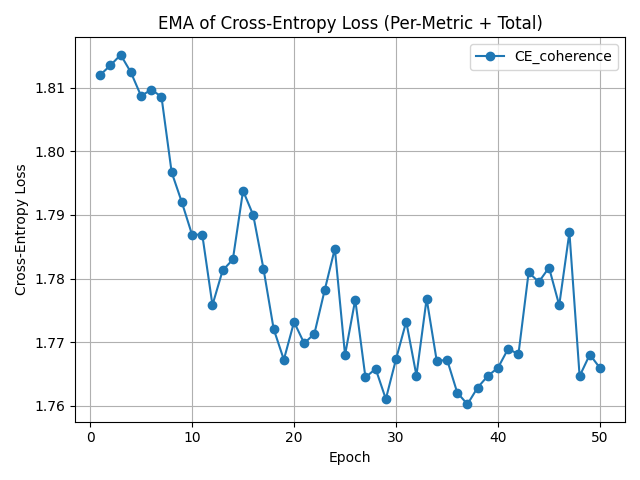
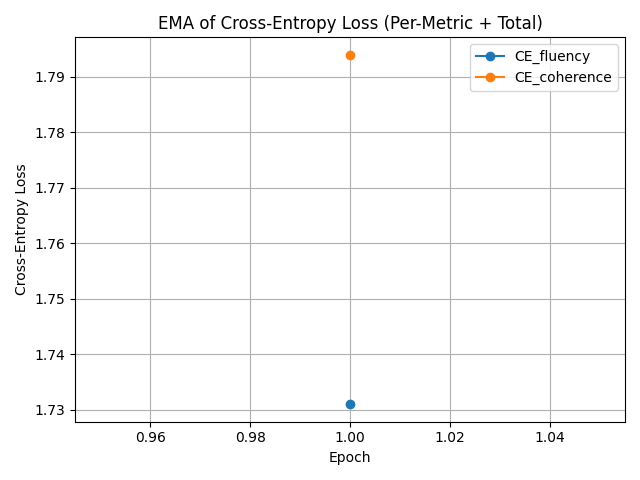
Parametrized OPRO fn

diff --git a/src/opro.py b/src/opro.py
@@ -1,6 +1,6 @@
 import os
 from src.Recommender.recommender import call_recommender_llm, process_reply
-from src.Metrics.get_metrics import calculate_metrics, find_most_imformative_points
+from src.Metrics.get_metrics import calculate_metrics, find_most_informative_points
 from src.Rater.rater import call_rater_llm_meta_prompt, call_rater_llm_prompt
 from src.TopK_Heap.top_k import TopKHeap
 import matplotlib
@@ -145,6 +145,9 @@ def write_replies(processed_replies: list, model: str = "8b") -> None:
 
 
 def run_opro(
+  metric_names: list[str],
+  reco_format: str, ## OPRO or ours-unnamed
+  optimizer: str, ## 'min-all' or 'min-max'
   file_path: str = "Dataset/dataset/df_M11_sampled.parquet",
   top_k: int = 10,
   num_epochs: int = 30,
@@ -165,7 +168,6 @@ def run_opro(
   top_k_prompts = TopKHeap(top_k)
   print(f"Step 1: Created a heap to store top-{top_k} prompts (Successful)")
 
-  metric_names = ["coherence"] # "fluency", "consistency", "relevance","coherence"
   metric_history = {
     metric : {"f1" : [], "accuracy" : [], f"CE_{metric}" : []} for metric in metric_names
   }
@@ -176,6 +178,7 @@ def run_opro(
     print(f"\n--- Epoch {epoch + 1}/{num_epochs} ---")
     instruction = call_rater_llm_meta_prompt(
       top_k_prompts=top_k_prompts,
+      metric_names=metric_names,
       rater_llm_name=rater_llm_name,
       rater_temp=rater_temp, rater_top_p=rater_top_p,
     )
@@ -183,16 +186,17 @@ def run_opro(
 
     evals = call_rater_llm_prompt(
       instruction=instruction, file_path=file_path,
+      metric_names=metric_names,
       rater_llm_name=rater_llm_name, max_workers=max_workers,
       calls_per_minute=calls_per_minute, num_examples=num_examples,
       rater_temp=rater_temp, rater_top_p=rater_top_p,
     )
     print("Generated evals")
 
-    metrics = calculate_metrics(evals, file_path=file_path)
+    metrics = calculate_metrics(evals, file_path=file_path, metric_names=metric_names)
     print("Calculated metrics")
 
-    top_points = find_most_imformative_points(evals, file_path=file_path, top_k=top_k_most_imp_points)
+    top_points = find_most_informative_points(evals, file_path=file_path, top_k=top_k_most_imp_points, metric_names=metric_names)
     print("Found most informative points")
 
     for metric in metric_names:
@@ -202,10 +206,17 @@ def run_opro(
       # metric_history[metric]["mean_diff"].append(metrics[metric]["mean_diff"])
     # metric_history["CE_Total"]["CE_Total"].append(metrics["CE_Total"])
 
-    recommendation = call_recommender_llm(instruction, metrics, file_path=file_path, reco_llm_name=reco_llm_name, top_points=top_points, reco_temp=reco_temp, reco_top_p=reco_top_p)
+    recommendation = call_recommender_llm(
+      instruction, metrics, file_path=file_path, reco_llm_name=reco_llm_name,
+      top_points=top_points, reco_temp=reco_temp, reco_top_p=reco_top_p,
+      optimizer=optimizer, reco_format=reco_format, metric_names=metric_names
+    )
     print("Generated recommendation")
 
-    processed_reply = process_reply(instruction=instruction, recommendation=recommendation, heap=top_k_prompts, metrics=metrics)
+    processed_reply = process_reply(
+      instruction=instruction, recommendation=recommendation,
+      heap=top_k_prompts, metrics=metrics
+    )
     processed_replies.append(processed_reply)
     print("Processed Reply")
 
@@ -228,7 +239,7 @@ def run_opro(
   }
 
 def testing_results(
-  opro_top_k_prompts: list[dict],
+  opro_top_k_prompts: list[dict], metric_names: list[str],
   rater_llm_name: str, rater_temp: float, rater_top_p: float,
   max_workers: int = 25, calls_per_minute: int = 120, num_examples: int = 480,
   test_file_path: str = "src/Dataset/dataset/cleaned_test_df.csv", model: str = "8b"
@@ -246,10 +257,10 @@ def testing_results(
     instruction=best_instruction, file_path=test_file_path,
     rater_llm_name=rater_llm_name, rater_top_p=rater_top_p,
     rater_temp=rater_temp,max_workers=max_workers, calls_per_minute=calls_per_minute,
-    num_examples=num_examples,
+    num_examples=num_examples, metric_names=metric_names
   )
 
-  test_metrics = calculate_metrics(evals, file_path=test_file_path)
+  test_metrics = calculate_metrics(evals, file_path=test_file_path, metric_names=metric_names)
   print("Calculated metrics")
 
   output_file_path = f"test_performance_{model}.txt"
@@ -270,6 +281,9 @@ def main(
     test_file_path: str,
     rater_llm_name: str,
     reco_llm_name: str,
+    reco_format: str,
+    optimizer: str,
+    metric_names: list[str],
     top_k: int = 10,
     num_epochs: int = 40,
     rater_temp: float = 0.1,
@@ -296,6 +310,9 @@ def main(
     calls_per_minute=calls_per_minute,
     max_workers=max_workers,
     num_examples=train_num_examples,
+    optimizer=optimizer,
+    metric_names=metric_names,
+    reco_format=reco_format,
   )
 
   metric_history_file_path = f"metric_history_opro_{model}.txt"
@@ -310,6 +327,7 @@ def main(
     opro_top_k_prompts=opro_results["top_k_prompts"],
     rater_llm_name=rater_llm_name, test_file_path=test_file_path,
     rater_top_p=rater_top_p, rater_temp=rater_temp, model=model, num_examples=test_num_examples,
+    metric_names=metric_names,
   )
 
   print("Test evaluation done")
@@ -326,20 +344,22 @@ if __name__ == "__main__":
   rater_llm_name_70b = "meta-llama/llama-3.1-70b-instruct"
   reco_llm_name_70b = "meta-llama/llama-3.1-70b-instruct"
 
-  main(
-    train_file_path=train_filepath, test_file_path=test_filepath,
-    rater_llm_name=rater_llm_name_8b,
-    reco_llm_name=reco_llm_name_8b, top_k=10, num_epochs=50,
-    rater_temp=0.0, reco_temp=0.0, rater_top_p=1.0, reco_top_p=1.0,
-    calls_per_minute=75, max_workers=25, train_num_examples=160, model="8b",
-    test_num_examples=480,
-  )
+  metric_names = ["fluency", "coherence"]
 
   main(
     train_file_path=train_filepath, test_file_path=test_filepath,
-    rater_llm_name=rater_llm_name_70b, reco_llm_name=reco_llm_name_70b,
-    top_k=10, num_epochs=50,
+    rater_llm_name=rater_llm_name_8b, metric_names=metric_names,
+    reco_llm_name=reco_llm_name_8b, top_k=10, num_epochs=1,
     rater_temp=0.0, reco_temp=0.0, rater_top_p=1.0, reco_top_p=1.0,
-    calls_per_minute=75, max_workers=25, train_num_examples=160, model="70b",
-    test_num_examples=480,
+    calls_per_minute=75, max_workers=25, train_num_examples=16, model="8b",
+    test_num_examples=48, optimizer="min-all", reco_format="ours-unnamed"
   )
+
+  # main(
+  #   train_file_path=train_filepath, test_file_path=test_filepath,
+  #   rater_llm_name=rater_llm_name_70b, metric_names=metric_names,
+  #   reco_llm_name=reco_llm_name_70b, top_k=10, num_epochs=50,
+  #   rater_temp=0.0, reco_temp=0.0, rater_top_p=1.0, reco_top_p=1.0,
+  #   calls_per_minute=75, max_workers=25, train_num_examples=160, model="70b",
+  #   test_num_examples=480, optimizer="min-all", reco_format="ours-unnamed"
+  # )
